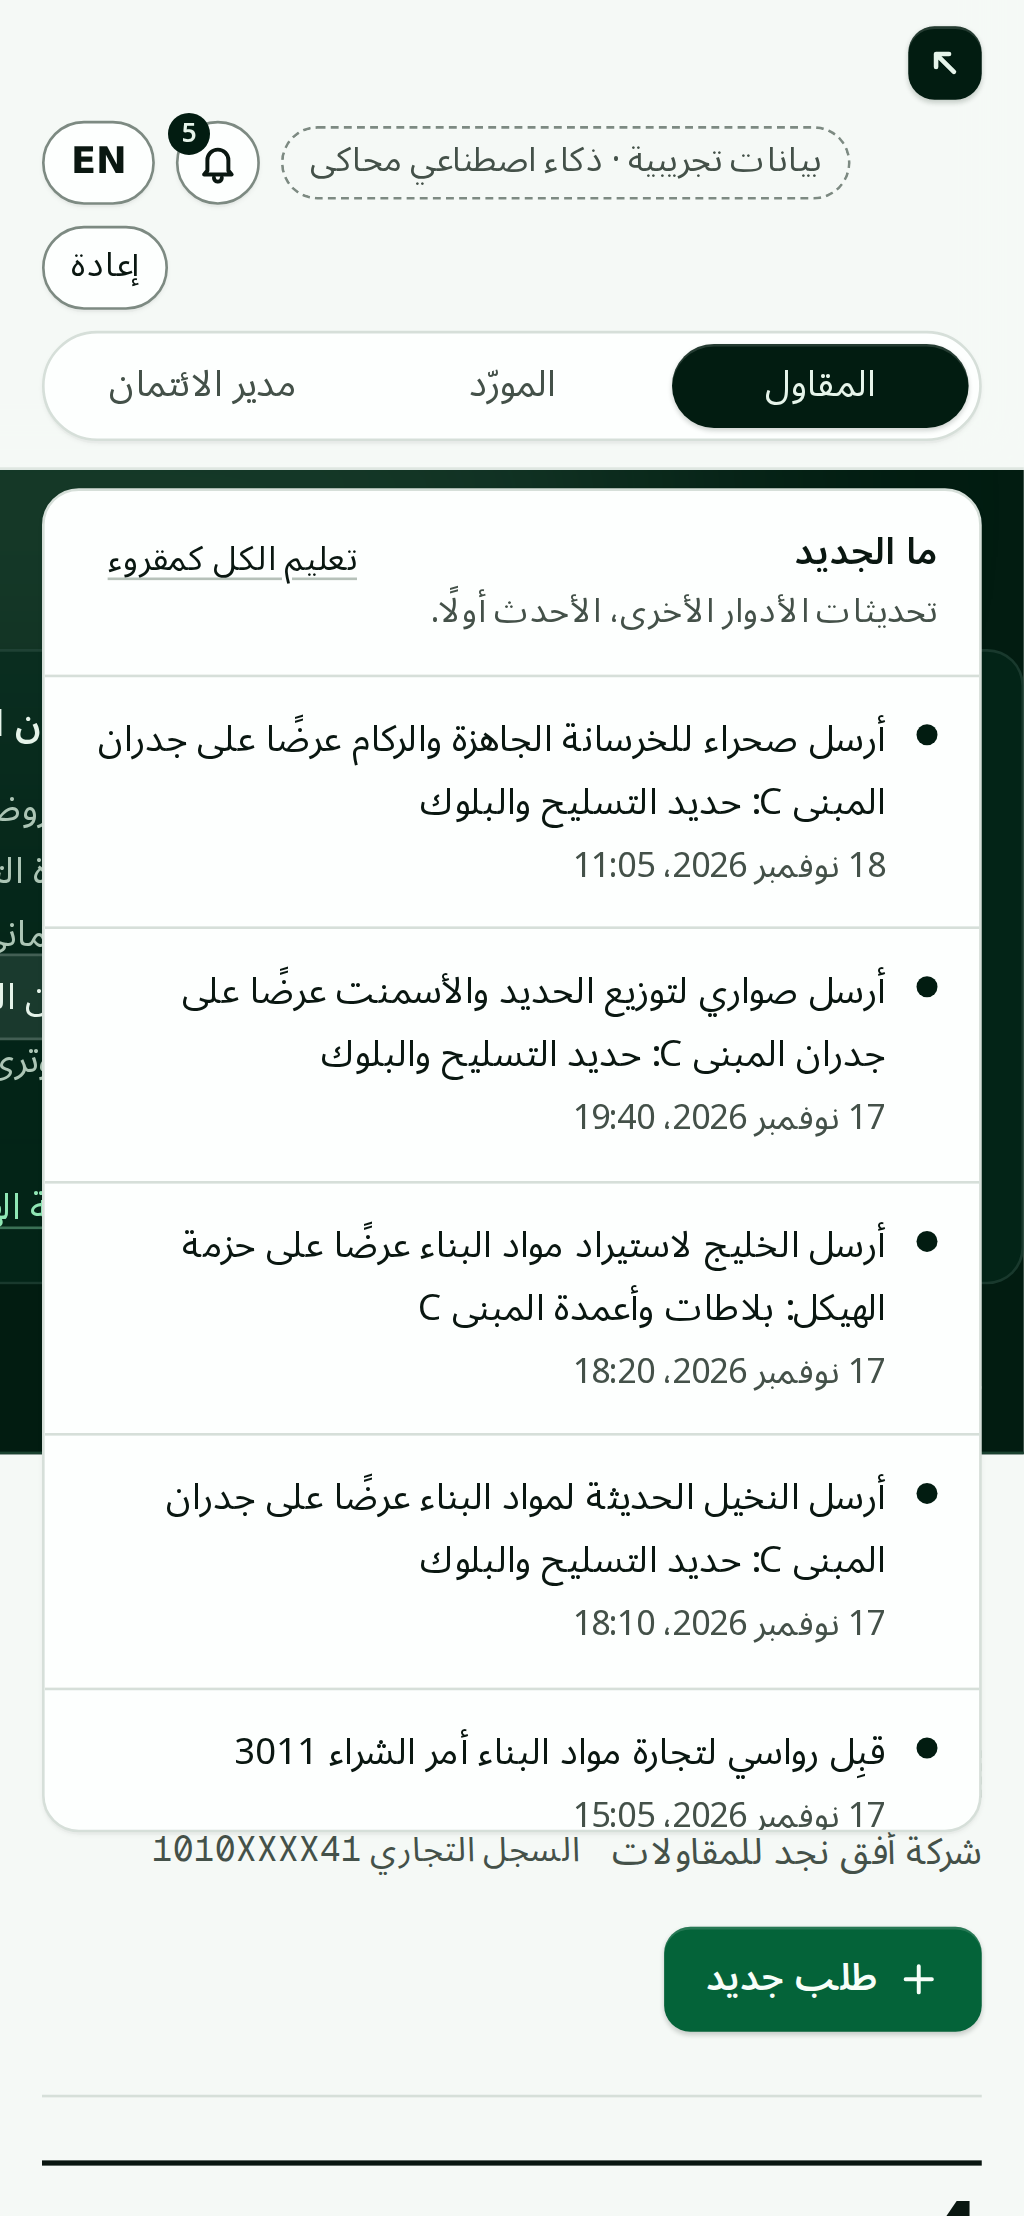
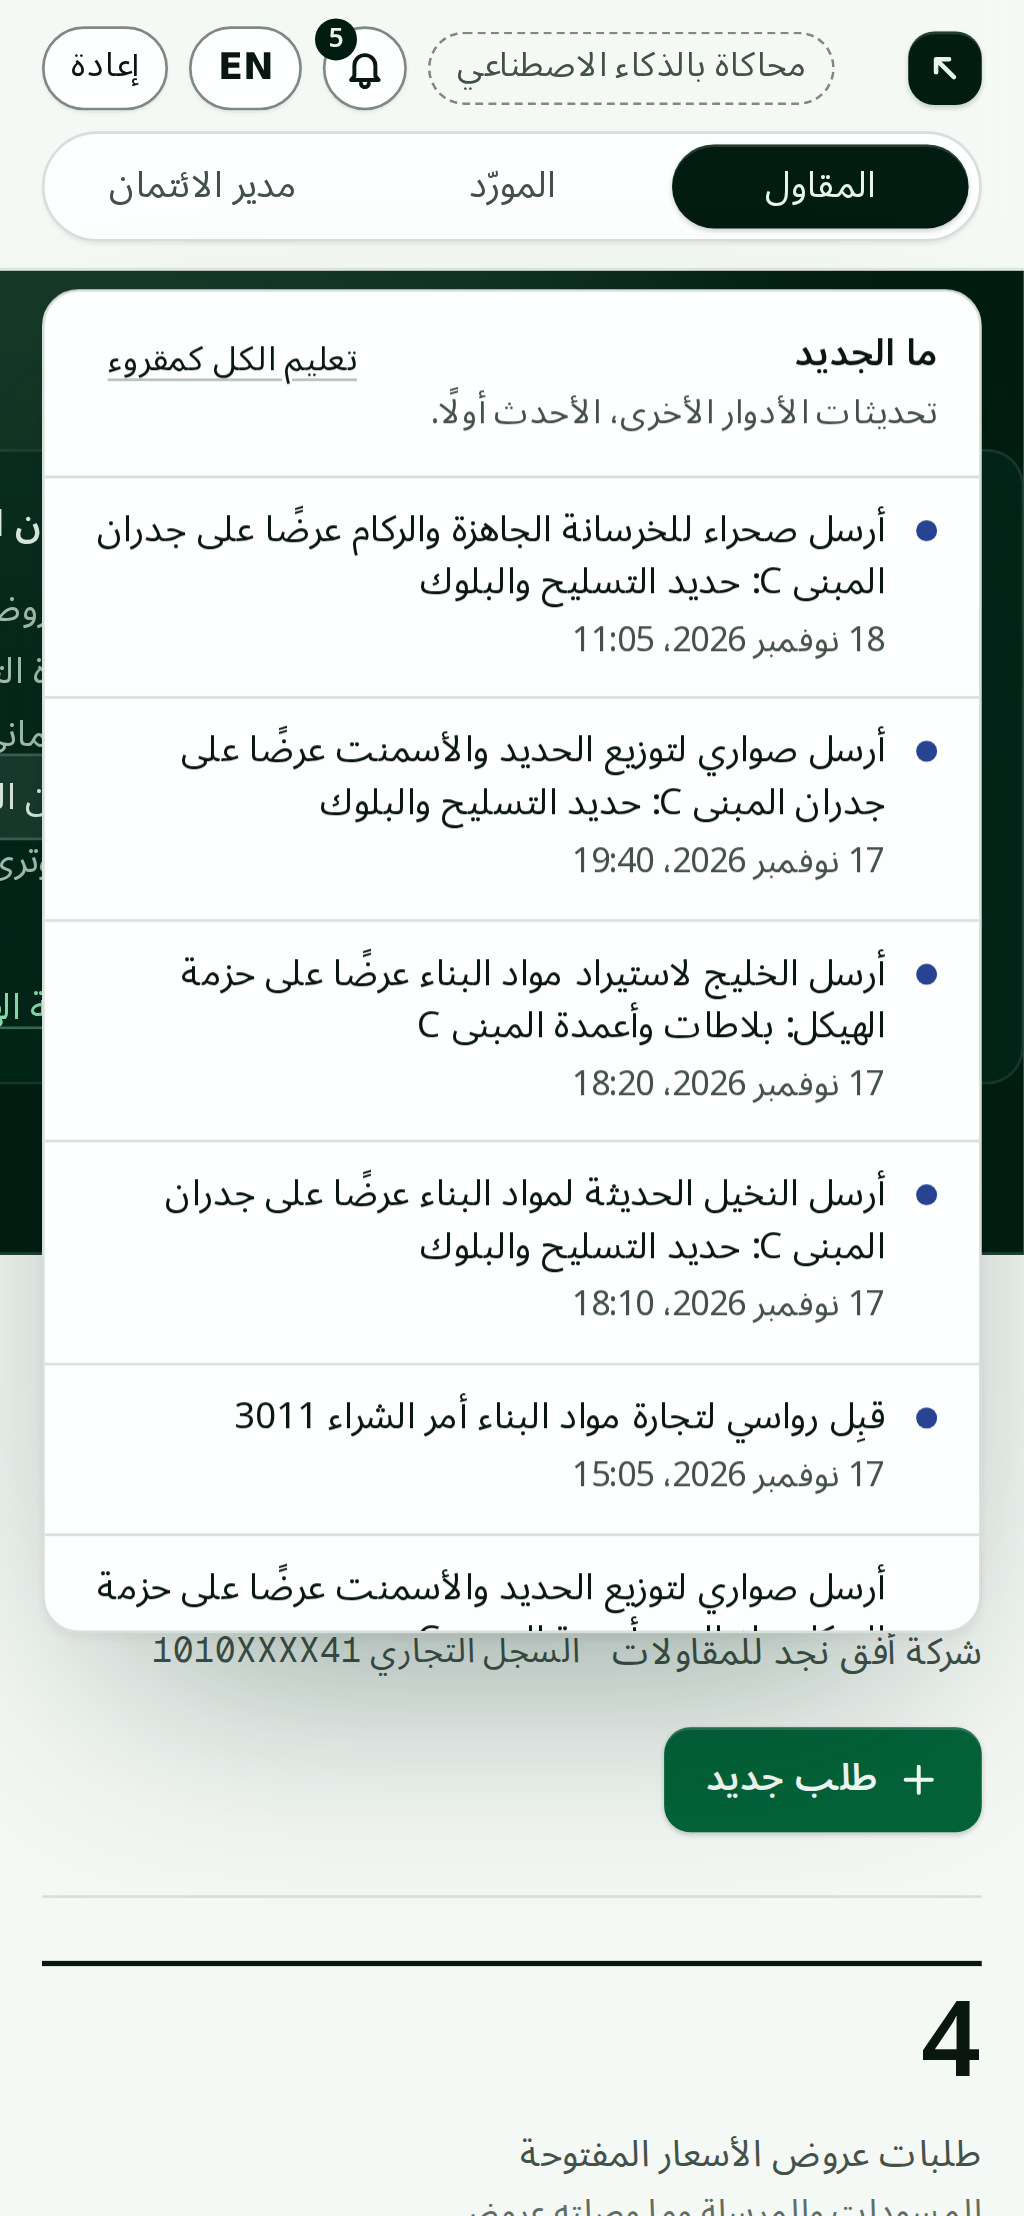
fix(activity): Arabic app bar fits two rows at 390 px; panel polish (Layla's review)
- App-bar pill: "Simulated AI" always shows (the brief asks for it to be
  labelled); the "Sample data ·" prefix only from sm, since page headers
  already carry a Sample data label. Arabic 390 px is back to two rows
  (bell, EN and Reset on the first). At 320 px Reset still wraps, as the
  wider full pill already did on main.
- Panel: shadow-float, rows py-2.5 / leading-5, unread dot in stamp blue.
- e2e: Arabic phones keep the bell beside EN with no sideways scroll, and
  Reset on the same row at 390 px. Screenshots refreshed.

diff --git a/src/components/activity/activity-bell.tsx b/src/components/activity/activity-bell.tsx
@@ -150,7 +150,7 @@ export function ActivityBell({ role }: { role: Role }) {
           id={panelId}
           aria-labelledby={titleId}
           data-testid="activity-panel"
-          className="absolute inset-x-4 top-full z-30 mt-2 flex max-h-[min(32rem,75vh)] flex-col sm:inset-x-auto sm:end-0 sm:w-[24rem] overflow-hidden rounded-xl border border-line bg-surface text-start shadow-card motion-safe:animate-rise"
+          className="absolute inset-x-4 top-full z-30 mt-2 flex max-h-[min(32rem,75vh)] flex-col sm:inset-x-auto sm:end-0 sm:w-[24rem] overflow-hidden rounded-xl border border-line bg-surface text-start shadow-float motion-safe:animate-rise"
         >
           <div className="flex items-start justify-between gap-3 border-b border-line px-4 py-3">
             <div>
@@ -185,9 +185,9 @@ export function ActivityBell({ role }: { role: Role }) {
                       data-testid="activity-item"
                       data-unread={isNew ? "true" : undefined}
                       onClick={() => setOpen(false)}
-                      className="flex gap-3 px-4 py-3 text-sm transition-colors duration-150 hover:bg-paper focus-visible:bg-paper"
+                      className="flex gap-3 px-4 py-2.5 text-sm leading-5 transition-colors duration-150 hover:bg-paper focus-visible:bg-paper"
                     >
-                      <span aria-hidden="true" className={`mt-1.5 size-2 shrink-0 rounded-full ${isNew ? "bg-pine-deep" : "bg-transparent"}`} />
+                      <span aria-hidden="true" className={`mt-1.5 size-2 shrink-0 rounded-full ${isNew ? "bg-stamp" : "bg-transparent"}`} />
                       <span className="flex min-w-0 flex-col gap-0.5">
                         <span className="text-ink">
                           {isNew ? <span className="sr-only">{a.newBadge}: </span> : null}

diff --git a/e2e/activity.spec.ts b/e2e/activity.spec.ts
@@ -94,3 +94,18 @@ test("on a 390 px phone the panel stays inside the screen, English and Arabic", 
     await page.keyboard.press("Escape");
   }
 });
+
+test("Arabic phones: the bell does not push the app bar to more rows (390: one row; 320: bell beside EN, no sideways scroll)", async ({ page }) => {
+  await page.addInitScript(() => window.localStorage.setItem("watad-locale", "ar"));
+  for (const width of [390, 320]) {
+    await page.setViewportSize({ width, height: 844 });
+    await enterAs(page, "contractor");
+    await expect(page.locator("html")).toHaveAttribute("dir", "rtl");
+    const header = page.locator("header").filter({ has: page.getByTestId("activity-bell") }).filter({ visible: true });
+    const top = async (name: RegExp | string) => (await header.getByRole("button", { name }).first().boundingBox())!.y;
+    const bell = (await tid(page, "activity-bell").boundingBox())!.y;
+    if (width === 390) expect(Math.abs((await top("إعادة")) - bell), `${width}px`).toBeLessThan(4);
+    expect(Math.abs((await tid(page, "locale-toggle").boundingBox())!.y - bell), `${width}px`).toBeLessThan(4);
+    expect(await page.evaluate(() => document.documentElement.scrollWidth - window.innerWidth), `${width}px`).toBeLessThanOrEqual(0);
+  }
+});

diff --git a/src/components/role-nav.tsx b/src/components/role-nav.tsx
@@ -61,7 +61,12 @@ export function RoleNav({ current }: { current: Role }) {
           <Link href="/how-we-built" data-testid="nav-how-we-built" className="hidden whitespace-nowrap text-ink-muted transition-colors duration-150 hover:text-ink xl:inline">
             {m.appBar.howWeBuilt}
           </Link>
-          <span className="whitespace-nowrap rounded-full border border-dashed border-line-control px-2.5 py-0.5 text-xs text-ink-muted">{m.sampleData}</span>
+          {/* "Simulated AI" always shows (the brief asks for it to be labelled); the "Sample data" prefix only from sm,
+              since every page header already has a Sample data label and the full Arabic pill wrapped the bar on phones. */}
+          <span className="whitespace-nowrap rounded-full border border-dashed border-line-control px-2.5 py-0.5 text-xs text-ink-muted">
+            <span className="hidden sm:inline">{m.ui.sampleDataShort} · </span>
+            {m.ui.simulatedAi}
+          </span>
           <ActivityBell role={current} />
           <LocaleToggle />
           <ResetDemoButton />
